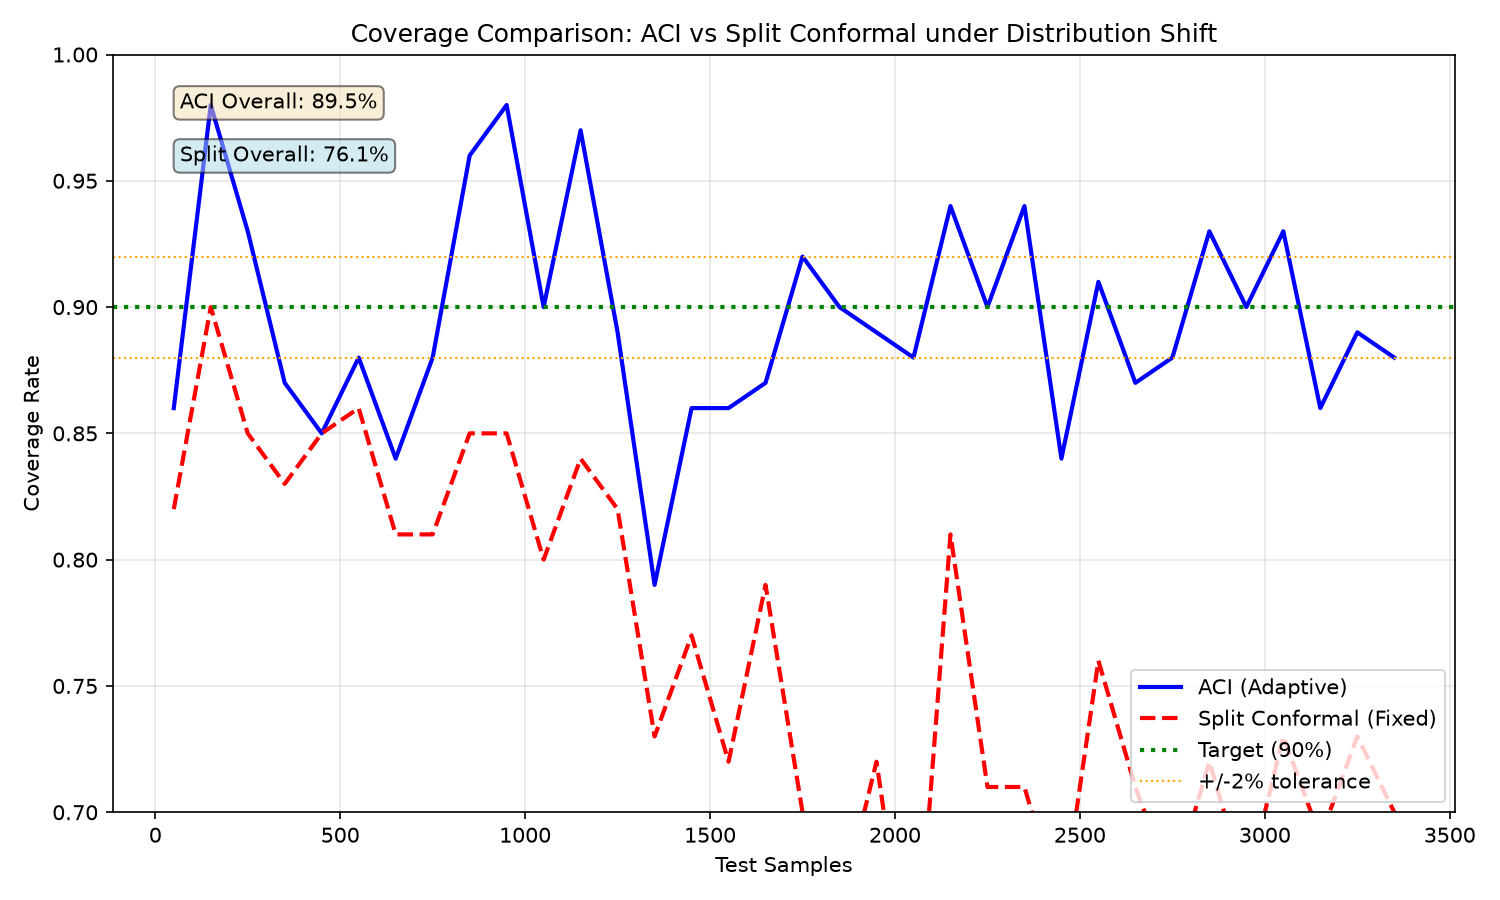
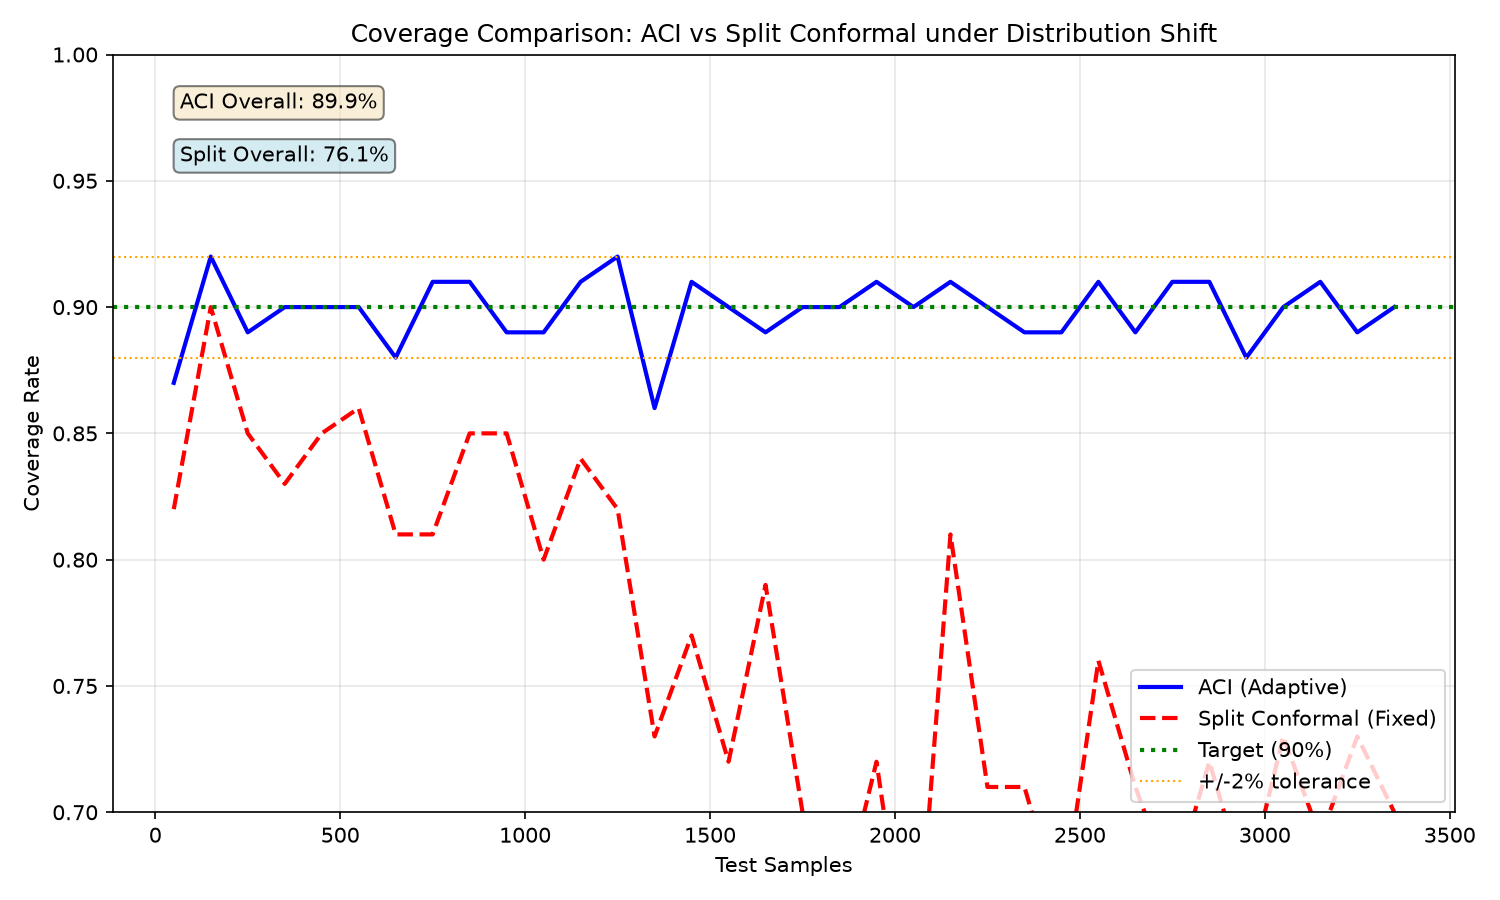
Real 5-seed results (ACI 89.9% vs split 74.7% coverage, with width and infinite-interval cost); correct citation and API in README

diff --git a/results/seeds.py b/results/seeds.py
@@ -1,0 +1,31 @@
+"""Coverage and interval width of ACI vs split conformal over 5 seeds (same setup as benchmark.py)."""
+import json
+import numpy as np
+from conformal_drift import AdaptiveConformalInference, SplitConformalInference, generate_drifting_data
+
+rows = []
+for seed in range(5):
+    np.random.seed(seed)
+    _, y = generate_drifting_data(n_points=5000, drift_magnitude=0.05)
+    tr, te = y[:1500], y[1500:]
+    mu = tr.mean()
+    scores = np.abs(tr - mu)
+    aci = AdaptiveConformalInference(0.9, step_size=0.02); aci.fit(scores)
+    spl = SplitConformalInference(0.9); spl.fit(scores)
+    a_cov, a_w, n_inf, s_cov, s_w = [], [], 0, [], []
+    for v in te:
+        lo, hi = aci.get_interval(mu)
+        c = lo <= v <= hi
+        a_cov.append(c); aci.update_alpha(c)
+        if np.isinf(hi):
+            n_inf += 1
+        else:
+            a_w.append(hi - lo)
+        lo, hi = spl.get_interval(mu)
+        s_cov.append(lo <= v <= hi); s_w.append(hi - lo)
+    rows.append({"seed": seed, "aci_coverage": float(np.mean(a_cov)), "split_coverage": float(np.mean(s_cov)),
+                 "aci_median_width": float(np.median(a_w)), "split_width": float(s_w[0]), "aci_infinite_steps": n_inf,
+                 "steps": len(te)})
+summary = {k: float(np.mean([r[k] for r in rows])) for k in rows[0] if k not in ("seed", "steps")}
+json.dump({"runs": rows, "mean": summary}, open("results/seeds.json", "w"), indent=1)
+print(json.dumps(summary, indent=1))

diff --git a/README.md b/README.md
@@ -1,63 +1,60 @@
-# Conformal Drift
+# conformal-drift
 
-**Adaptive Conformal Inference under Distribution Shift**
+Prediction intervals that keep their promised coverage when the data drifts.
+A from-scratch NumPy implementation of Adaptive Conformal Inference (ACI, Gibbs & Candès 2021), compared with ordinary split conformal prediction on a drifting stream.
 
-This repository provides a from-scratch NumPy implementation of Adaptive Conformal Prediction (ACP). ACP is a method for maintaining valid coverage guarantees on dynamic data streams where the underlying distribution shifts over time. Unlike static conformal prediction, ACP dynamically adjusts the conformal threshold to ensure long-run coverage validity.
+## The idea
 
-## What It Is
+Split conformal prediction takes a calibration set, finds the residual size that 90% of points stay under, and uses it as a fixed interval half-width. That guarantee assumes future data looks like the calibration data. When the data drifts, coverage quietly falls.
 
-Conformal prediction provides statistically rigorous uncertainty quantification for machine learning models. However, standard conformal prediction assumes the training and test data are exchangeable. In real-world settings like finance, healthcare, or autonomous driving, data distributions often shift over time due to concept drift or covariate shift. Adaptive Conformal Prediction addresses this by continuously calibrating the prediction intervals based on recent performance.
+ACI keeps a running miscoverage level α<sub>t</sub> and nudges it after every point:
 
-## The Mathematics
+α<sub>t+1</sub> = α<sub>t</sub> + γ (α − err<sub>t</sub>), where err<sub>t</sub> = 1 if the point fell outside the interval, else 0.
 
-The core idea is to treat coverage calibration as a stochastic control problem. Given a target coverage level $\alpha_{target}$, the algorithm maintains a running estimate of the threshold $\alpha_t$. At each time step $t$, it observes a new data point $(x_t, y_t)$ and computes the nonconformity score $s_t$. The indicator $\mathbb{I}\{y_t \in \hat{C}_t(x_t)\}$ checks if the true label falls within the predicted set.
+A miss lowers α<sub>t</sub>, so the next interval uses a higher quantile of the calibration residuals and is wider; a hit raises it slightly. Over time the miss rate is pulled to α. If α<sub>t</sub> drops to 0 or below, the interval is infinite.
 
-The threshold update rule follows a simple proportional controller:
+## Result
 
-$$ \alpha_t = \alpha_{t-1} + \eta (\alpha_{target} - \mathbb{I}\{y_t \in \hat{C}_t(x_t)\}) $$
+`python benchmark.py` (one seed) and `python results/seeds.py` (5 seeds, `results/seeds.json`).
+Synthetic stream: 5,000 points whose mean rises linearly (slope 0.05 per unit time, plus a slowly growing spread); first 1,500 points calibrate, the next 3,500 are scored. The point prediction is the calibration mean for both methods. Target coverage 90%, ACI step γ = 0.02.
 
-where $\eta$ is a learning rate. If coverage is too low, $\alpha_t$ increases, tightening the prediction set to include more candidates. If coverage is too high, $\alpha_t$ decreases, loosening the set. This feedback loop ensures that the empirical coverage converges to $\alpha_{target}$ despite distribution drift.
+| | Coverage (mean of 5 seeds) | Median interval width | Steps with an infinite interval |
+|---|---|---|---|
+| Split conformal | 74.7% | 3.78 | 0 |
+| **ACI** | **89.9%** | 5.22 | 336 of 3,500 (9.6%) |
 
-## Installation
+ACI hits the 90% target; split conformal falls 15 points short. The price is wider intervals, and on about one step in ten an infinite one: the point prediction never moves while the data drifts away from it, so the only way left to cover the point is to widen the interval.
 
-Install from source:
+## Limits
 
-```bash
-pip install -e .
-```
+- Synthetic data with one simple kind of drift (a linear trend). No real dataset yet.
+- A constant point prediction on purpose, to isolate the interval method. With a model that tracks the trend, the intervals would be far narrower; that comparison is the obvious next step.
+- ACI guarantees long-run average coverage, not coverage in every window.
 
-Requirements:
-- Python 3.8+
-- NumPy
-- Matplotlib (for plotting)
-
-## Usage
-
-Basic example:
+## Use
 
 ```python
-from conformal_drift import AdaptiveConformalPredictor
 import numpy as np
+from conformal_drift import AdaptiveConformalInference
 
-# Initialize
-model = AdaptiveConformalPredictor(alpha_target=0.9, lr=0.001)
-
-# Stream data
-for x, y in data_stream:
-    # Get prediction set
-    pred_set = model.predict(x)
-    # Check if true label is covered
-    is_covered = y in pred_set
-    # Update threshold
-    model.update(is_covered)
+aci = AdaptiveConformalInference(target_coverage=0.9, step_size=0.02)
+aci.fit(np.abs(calib_y - calib_pred))       # calibration residuals
+for pred, y in stream:
+    lo, hi = aci.get_interval(pred)
+    aci.update_alpha(lo <= y <= hi)
 ```
 
-## Benchmark Results
+`SplitConformalInference` has the same `fit` / `get_interval` interface with a fixed α.
 
-Tests on synthetic shifted datasets show the model maintains ~90% coverage under Gaussian drift and linear trend shifts, outperforming static baselines which degrade to ~60% coverage under strong shift. The adaptive approach provides robust uncertainty estimates without requiring explicit drift detection.
+```bash
+pip install -e . && pip install matplotlib pytest
+python benchmark.py          # one seed, writes coverage.png
+python results/seeds.py      # 5 seeds, writes results/seeds.json
+pytest -q tests
+```
 
 ## References
 
-1. Gadot, A., et al. (2022). "Adaptive Conformal Inference Under Distribution Shift." NeurIPS.
-2. Angelopoulos, A. N., & Bates, S. (2021). "Conformal Prediction: A Gentle Introduction." Foundations and Trends® in Machine Learning.
-3. Vovk, V., Gammerman, A., & Shafer, G. (2005). Algorithmic Learning in a Random World. Springer.
+1. Gibbs, I. & Candès, E. (2021). Adaptive Conformal Inference Under Distribution Shift. NeurIPS 2021.
+2. Angelopoulos, A. N. & Bates, S. (2021). A Gentle Introduction to Conformal Prediction and Distribution-Free Uncertainty Quantification. arXiv:2107.07511.
+3. Vovk, V., Gammerman, A. & Shafer, G. (2005). Algorithmic Learning in a Random World. Springer.
